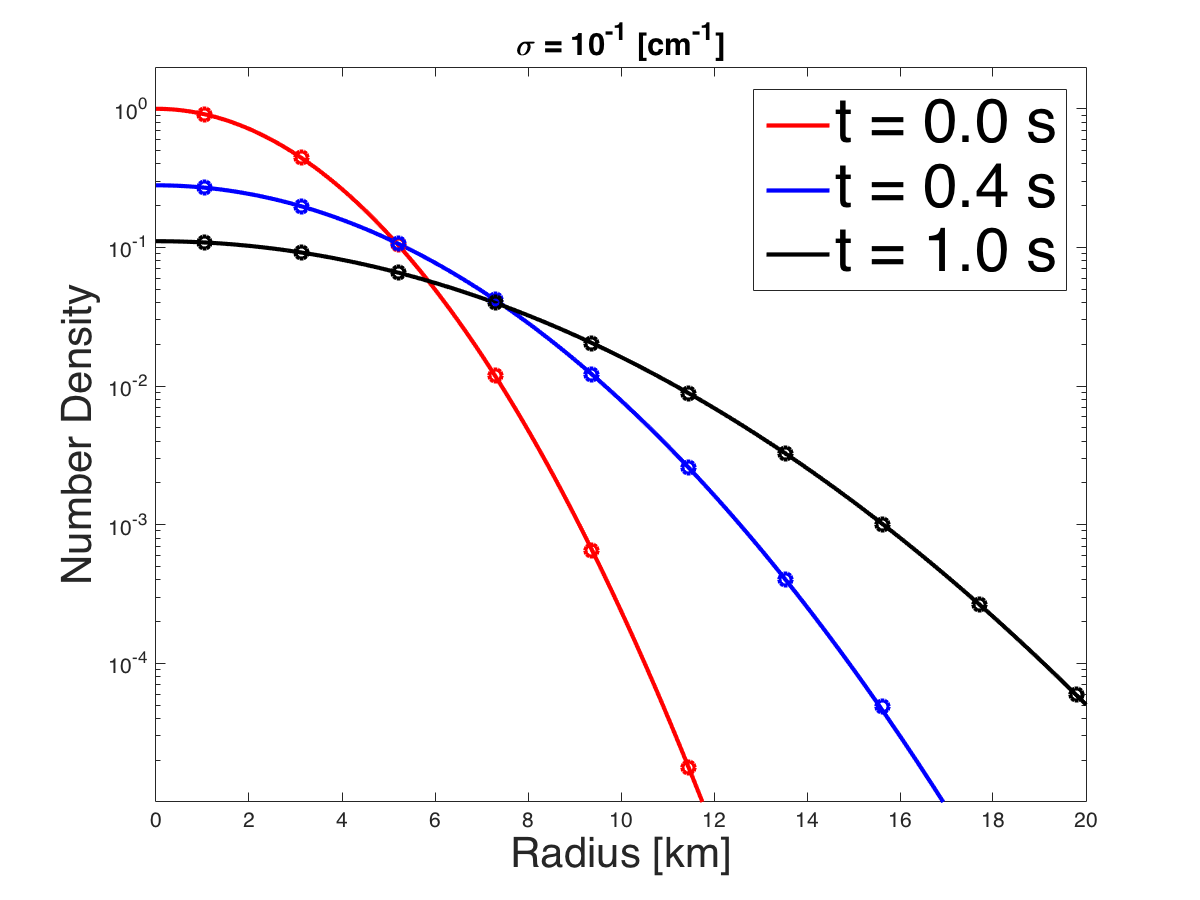
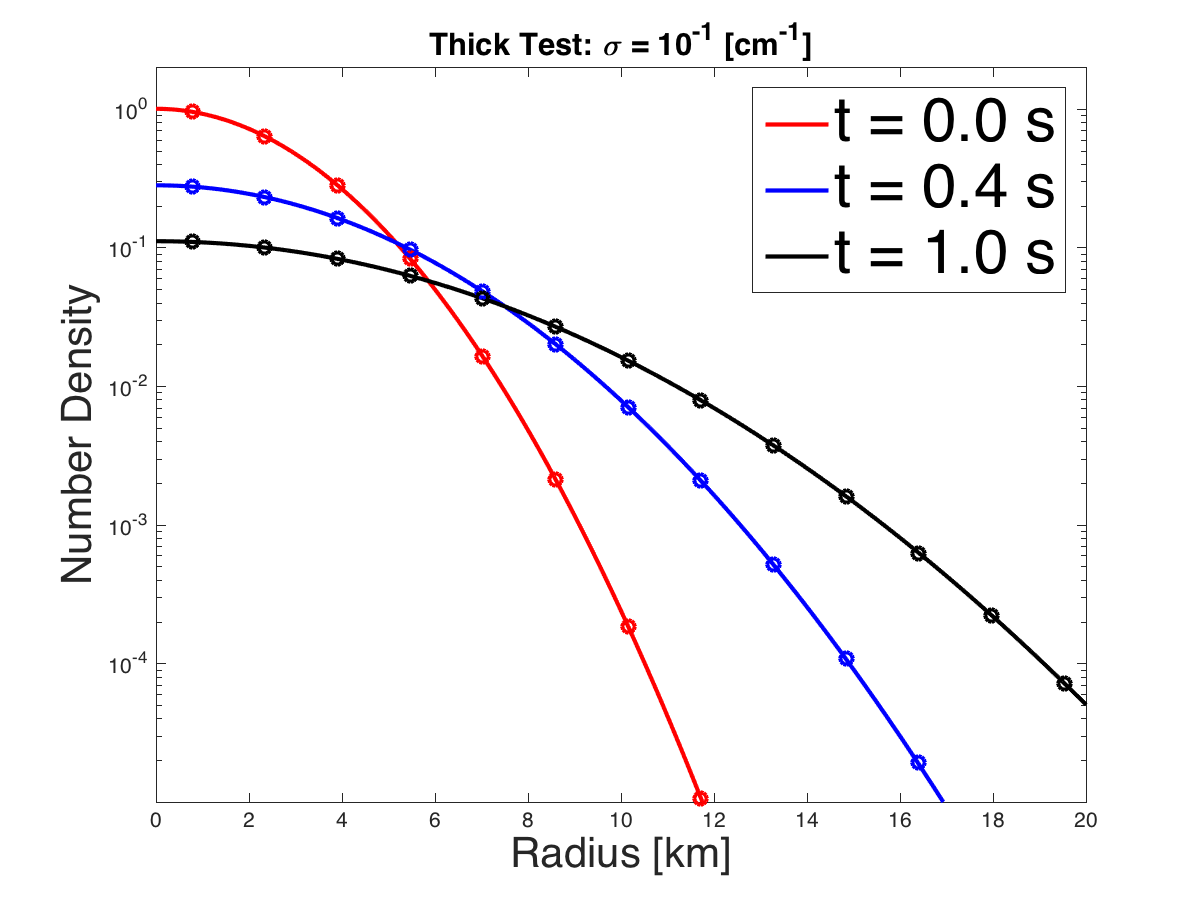
Updates to manuscript.

diff --git a/Documents/M1/dgM1Curvilinear.tex b/Documents/M1/dgM1Curvilinear.tex
@@ -32,6 +32,7 @@
 \newcommand{\pbK}{\partial\mathbf{K}}
 \newcommand{\UDG}{\bU_{\mbox{\tiny DG}}}
 \newcommand{\sumx}{\sum_{i=1}^{d}}
+\newcommand{\NES}{\mbox{\tiny NES}}
 
 \begin{document}
 
@@ -55,17 +56,23 @@ We will use inits in which the speed of light is unity ($c=1$).
 \subsection{Basic Mathematical Model}
 
 For general curvilinear spatial coordinates $\{x^{i}\}$, the two-moment model for radiation transport takes the form \citep[see, e.g.,][for fully general relativistic treatments]{shibata_etal_2011,cardall_etal_2013a}
-\begin{equation}
-  \f{1}{\sqrt{\gamma}}\pderiv{}{t}\Big(\,\sqrt{\gamma}\,\cJ\,\Big)
-  +\f{1}{\sqrt{\gamma}}\pderiv{}{x^{i}}\Big(\,\sqrt{\gamma}\,\cH^{i}\,\Big)=\chi\,\big(\cJ_{0}-\cJ\big),
+\begin{align}
+  &\f{1}{\sqrt{\gamma}}\pderiv{}{t}\Big(\,\sqrt{\gamma}\,\cJ\,\Big)
+  +\f{1}{\sqrt{\gamma}}\pderiv{}{x^{i}}\Big(\,\sqrt{\gamma}\,\cH^{i}\,\Big)
+  =\tilde{\chi}\,\big(\cJ_{0}-\cJ\big) \nonumber \\
+  &\hspace{12pt}
+  +\big(4\pi-\cJ\big)\int_{\bbR^{+}}R^{\In}(\epsilonNu,\epsilonNu')\,\cJ(\epsilonNu')\,dV_{\epsilonNu'}
+  -\cJ\int_{\bbR^{+}}R^{\Out}(\epsilonNu,\epsilonNu')\,\big(4\pi-\cJ(\epsilonNu')\big)\,dV_{\epsilonNu'},
   \label{eq:momentEquationEnergy}
-\end{equation}
-\begin{equation}
-  \f{1}{\sqrt{\gamma}}\pderiv{}{t}\Big(\,\sqrt{\gamma}\,\cH_{j}\,\Big)
+\end{align}
+\begin{align}
+  &\f{1}{\sqrt{\gamma}}\pderiv{}{t}\Big(\,\sqrt{\gamma}\,\cH_{j}\,\Big)
   +\f{1}{\sqrt{\gamma}}\pderiv{}{x^{i}}\Big(\,\sqrt{\gamma}\,\cK^{i}_{~j}\,\Big)
-  =\f{1}{2}\,\cK^{ik}\,\pderiv{\gamma_{ik}}{x^{j}}-\kappa\,\cH_{j},
+  =\f{1}{2}\,\cK^{ik}\,\pderiv{\gamma_{ik}}{x^{j}}-\kappa\,\cH_{j} \nonumber \\
+  &\hspace{12pt}
+  -\cH_{j}\int_{\bbR^{+}}\big[\,R^{\In}(\epsilonNu,\epsilonNu')\,\cJ(\epsilonNu')+R^{\Out}(\epsilonNu,\epsilonNu')\big(4\pi-\cJ(\epsilonNu')\big)\,\big]\,dV_{\epsilonNu'},
   \label{eq:momentEquationMomentum}
-\end{equation}
+\end{align}
 where $\cJ$, $\cH^{i}$, and $\cK^{ij}$ are defined as angular moments of a positive neutrino distribution function $f(\omegaNu,\epsilonNu,\bx,t)$
 \begin{equation}
   \big\{\,\cJ,\,\cH^{i},\,\cK^{ij}\,\big\}(\epsilonNu,\bx,t)
@@ -82,15 +89,19 @@ In forming the angular moments in Eq.~\eqref{eq:angularMoments}, the integrals e
 The angular moments are related to the neutrino energy density, momentum density, and stress ($\cJ$, $\cH^{i}$, and $\cK^{ij}$, respectively).  
 They are functions of the neutrino energy $\epsilonNu$, spatial position $\{x^{i}\}$, and time $t$.  
 
-To model neutrino matter interactions, we include emission and absorption, and isotropic, elastic scattering on nucleons and nuclei.  
-On the right-hand sides of Eqs.~\eqref{eq:momentEquationEnergy} and \eqref{eq:momentEquationMomentum}, $\chi(\epsilonNu,\bU)$ and $\kappa(\epsilonNu,\bU)=\chi(\epsilonNu,\bU)+\sigma(\epsilonNu,\bU)$ are absorption and total (absorption plus scattering) opacities, respectively.  
+To model neutrino matter interactions, we include emission and absorption, (isotropic) elastic scattering on nucleons and nuclei, and neutrino-electron scattering (NES).  
+On the right-hand sides of Eqs.~\eqref{eq:momentEquationEnergy} and \eqref{eq:momentEquationMomentum}, $\tilde{\chi}(\epsilonNu,\bU)$ and $\kappa(\epsilonNu,\bU)=\tilde{\chi}(\epsilonNu,\bU)+\sigma(\epsilonNu,\bU)$ are absorption and total (absorption plus scattering) opacities, respectively.  
+The absorption opacity $\tilde{\chi}$ is corrected for stimulated absorption \citep[cf.][]{mezzacappaBruenn_1993a}.  
+The NES rates $R^{\In}$ and $R^{\Out}$ are obtained by expanding the full kernels in a Legendre series, retaining only the isotropic part \citep[see, e.g.,][]{cernohorsky_1994}, and the integrals extend over all energies $\bbR^{+}=\{\epsilonNu~|~\epsilonNu\in[0,\infty)\}$.  
+The energy volume element is $dV_{\epsilonNu}=\epsilonNu^{2}d\epsilonNu$.  
 The opacities depend on the neutrino energy and the local thermodynamic state of the fluid $\bU=(\rho,T,Y_{e})^{T}$, where $\rho$ is the (baryon) mass density, $T$ the temperature, and $Y_{e}$ the electron fraction.  
-We use the opacities given by \citet{bruenn_1985}.  
+For simplicity we consider a single neutrino species (electron neutrinos), and we use opacities given by \citet{bruenn_1985}; see Section~\ref{sec:opacities} for further details.  
 In Eq.~\eqref{eq:momentEquationEnergy}, the equilibrium density $\cJ_{0}=4\pi\,f_{0}(\epsilonNu,\bU)$ is computed from the angular moment of the isotropic Fermi-Dirac distribution
 \begin{equation}
   f_{0}(\epsilonNu,\bU)=\f{1}{e^{(\epsilonNu-\mu_{\nu})/k_{\mbox{\tiny B}}T}+1},
 \end{equation}
-where $k_{\mbox{\tiny B}}$ is Boltzmann's constant, and $\mu_{\nu}$ is the neutrino chemical potential.  
+where $k_{\mbox{\tiny B}}$ is Boltzmann's constant, and $\mu_{\nu}=\mu_{p}-\mu_{n}+\mu_{e}$ is the neutrino chemical potential.  
+(The chemical potentials of protons, neutrons, and electrons are denoted by $\mu_{p}$, $\mu_{n}$, and $\mu_{e}$, respectively.)
 
 The model given by Eqs.~\eqref{eq:momentEquationEnergy} and \eqref{eq:momentEquationMomentum} is non-relativistic (i.e., it does not include effects due to strong gravitational fields or interactions with a moving fluid), but is expressed in terms of curvilinear coordinates through the spatial metric tensor $\gamma_{ij}$, which gives squared infinitesimal line-element
 \begin{equation}
@@ -146,7 +157,8 @@ Specifically, we have $\psi(0)=1/3$ (diffusion limit) and $\psi(1)=1$ (streaming
   \end{center}
 \end{table}
 
-We define the geometry sources in Eq.~\eqref{eq:momentEquationMomentum} by
+For the forthcoming description it is useful to write the moment equations in a more compact form.  
+To this end, we define the geometry sources in Eq.~\eqref{eq:momentEquationMomentum} by
 \begin{equation}
   \cG_{j}
   =\f{1}{2}\,\cK^{ik}\,\pderiv{\gamma_{ik}}{x^{j}}.  
@@ -160,16 +172,16 @@ Specifically, using the time-independent metric tensor in Eq.~\eqref{eq:threeMet
   \cG_{3}
   =0.
 \end{equation}
-Then, by defining the vector of evolved moments $\bcM=\big(\,\cJ,\,\cH_{1},\,\cH_{2},\,\cH_{3}\,\big)^{T}$, the vector of geometry sources $\bcG(\bcM)=\big(\,0,\,\cG_{1},\,\cG_{2},\,\cG_{3}\,\big)^{T}$, the vector of collision sources $\bcC(\bcM)=\big(\,\chi\,(\cJ_{0}-\cJ),\,-\kappa\,\cH_{1},\,-\kappa\,\cH_{2},\,-\kappa\,\cH_{3}\,\big)^{T}$, and the flux vectors $\bcF^{i}(\bcM)=\big(\,\cH^{i},\,\cK_{~1}^{i},\,\cK_{~2}^{i},\,\cK_{~3}^{i}\,\big)^{T}$, we write the system of equations in compact form
+(Explicit expressions for metric functions appearing in the geometry sources are listed in Table~\ref{tab:metricFunctions}.)  
+Then, by defining the vector of evolved moments $\bcM=\big(\,\cJ,\,\bcH\,\big)^{T}$, the vector of geometry sources $\bcG(\bcM)=\big(\,0,\,\cG_{1},\,\cG_{2},\,\cG_{3}\,\big)^{T}$, the vector of collision sources $\bcC(\bcM)=\big(\,\chi\,(\cJ_{0}-\cJ)+\cL_{\NES},\,-(\kappa+\kappa_{\NES})\,\bcH\,\big)^{T}$, and the flux vectors $\bcF^{i}(\bcM)=\big(\,\cH^{i},\,\cK_{~1}^{i},\,\cK_{~2}^{i},\,\cK_{~3}^{i}\,\big)^{T}$, we write the system of equations in compact form
 \begin{equation}
   \f{1}{\sqrt{\gamma}}\pderiv{}{t}\Big(\,\sqrt{\gamma}\,\bcM\,\Big)
   +\f{1}{\sqrt{\gamma}}\pderiv{}{x^{i}}\Big(\,\sqrt{\gamma}\,\bcF^{i}(\bcM)\,\Big)
   =\bcG(\bcM)+\bcC(\bcM).
   \label{eq:momentEquationsCompact}
 \end{equation}
+Here, $\cL_{\NES}$ and $\kappa_{\NES}$ represent the integral operators appearing in Eqs.~\eqref{eq:momentEquationEnergy} and \eqref{eq:momentEquationMomentum}, respectively.  
 Eq.~\eqref{eq:momentEquationsCompact} forms the basis for developing DG methods for neutrino transport.  
-
-\clearpage
 
 \section{Discontinuous Galerkin Discretization}
 
@@ -393,8 +405,6 @@ In the absence of sources, Eq.~\eqref{eq:semidiscreteDiscretizedCellAverage} is 
 
 This defines the spatial discretization of the moment equations.  
 
-\clearpage
-
 \section{Time Integration}
 
 For time integration we employ the method lines.  
@@ -462,8 +472,6 @@ As discussed by \citet{chertock_etal_2015}, the time-integration method using Eq
 To increase the temporal accuracy to second order, \citet{chertock_etal_2015} propose a correction step to be applied after the last stage.  
 We defer the development of the correction step, and use the first-order accurate time integrator for stiff problems.  
 We note that the SIRK method reduces to the SSP-RK methods in Section~\ref{sec:explicitTime} when $\bcC=0$.  
-
-\clearpage
 
 \section{Polynomial Limiting}
 
@@ -574,6 +582,7 @@ In particular, from the definition of the moments in Eq.~\eqref{eq:angularMoment
 Failure in maintaining these bounds can lead to an ill-posed closure problem and loss of hyperbolicity for the moment equations.  
 
 \section{Neutrino Opacities}
+\label{sec:opacities}
 
 %\ee{Ran write about tabulated B85 absorption and scattering opacities.}
 
@@ -658,7 +667,6 @@ The last two terms are contributions from isoenergetic scattering of neutrino by
 R_{IS}(\mu_0, \mu^\prime_0, \epsilonNu,\bU) & = R_{IS}^{nucleons}(\mu_0, \mu^\prime_0, \epsilonNu,\bU) +  R_{IS}^{nuclei}(\mu_0, \mu^\prime_0, \epsilonNu,\bU)\\
 & = \int_{0}^{2\pi}d
 \end{align}
-\clearpage
 
 \section{Benchmark Problems}
 
@@ -677,12 +685,21 @@ We let the initial condition be given by
   \cJ(x,t=0)=\cH_{x}(x,t=0)=1+\sin\big(2\pi\,x\big).  
 \end{equation}
 Results are shown in Figure~\ref{fig:streamingSineWave} and Table~\ref{tab:streamingSineWave}.  
+In Figure~\ref{fig:streamingSineWave}, results obtained using the TVD limiter (cf. Eq.~\eqref{eq:minmodB} with $M=0$) with various $\beta$ values are shown.  
+With this limiter, the accuracy of the scheme is severely compromised.  
+The accuracy can be significantly improved with the TVB limiter ($M>0$), but the proper value for $M$ is problem dependent, and difficult to set a priori.  
+Instead, we have implemented the discontinuity detector based on Harten's subcell resolution method as a ``troubled-cell'' indicator \citep{harten_1989,qiuShu_2005}, which prevents limiting in smooth regions.  
+Results using the detector (black open circles) show a significant improvement.  
+In Table~\ref{tab:streamingSineWave} we list convergence results for this latter method, which demonstrates high-order accuracy (i.e., better than second-order) when expected.  
+Unless otherwise noted, we continue to use the discontinuity detector in the remaining numerical experiments.  
 
 \begin{figure}
   \begin{center}
-    \includegraphics[scale=0.38]{./Figures/StreamingSineWave1D}
+    \includegraphics[scale=0.78]{./Figures/StreamingSineWave1D}
   \end{center}
-  \caption{Energy density versus position after ten grid crossings ($t=10$) for the streaming sine wave problem computed with the DG(2)+RK3 scheme using 16 elements.  We compare results obtained using various limiter parameters (see text for details) with the analytic solution (dotted line).}
+  \caption{Particle density versus position after ten grid crossings ($t=10$) for the streaming sine wave problem computed with the DG(2)+RK3 scheme using 16 elements.  
+  We compare results obtained using various limiter parameters (open circles; see text for details) with the analytic solution (dotted line).  
+  Results obtained using the discontinuity detector (D) is denoted with black open circles.}
   \label{fig:streamingSineWave}
 \end{figure}
 
@@ -719,10 +736,13 @@ We let the boundary conditions be given by the analytical solution, and integrat
 
 Snapshots of the solution ($\cJ$ versus $r$), obtained with the DG(2)+RK3 scheme, are shown in Figure~\ref{fig:sphericalWave} for $t=\{2.5,3.5,5.0,7.0\}$ (open circles).  
 For comparison, the analytical solution is plotted with dotted lines.  
+There is good agreement between the numerical and analytical solutions.  
+In Table~\ref{tab:sphericalWave} we list convergence results obtained with the various schemes.  
+High-order accuracy is achieved with the DG(2)+RK3 and DG(3)+RK3 schemes.  
 
 \begin{figure}
   \begin{center}
-    \includegraphics[scale=0.38]{./Figures/GaussianSphericalWave1D}
+    \includegraphics[scale=0.78]{./Figures/GaussianSphericalWave1D}
   \end{center}
   \caption{Energy density versus radius at various times for the spherical wave problem computed with the DG(2)+RK3 scheme using 32 elements.  The numerical solution (open circles) is compared to the analytical solution (dotted lines).  }
   \label{fig:sphericalWave}
@@ -731,6 +751,7 @@ For comparison, the analytical solution is plotted with dotted lines.
 \begin{table}
   \begin{center}
   \caption{$L^{\infty}$ error and convergence rates for the spherical wave problem.}
+  \label{tab:sphericalWave}
   \begin{tabular}{ccccccccc}
     & \multicolumn{4}{c}{SSP-RK2} & \multicolumn{4}{c}{SSP-RK3} \\
     \cmidrule(r){2-5} \cmidrule(r){6-9}
@@ -749,8 +770,9 @@ For comparison, the analytical solution is plotted with dotted lines.
 
 \subsection{Riemann Problem}
 
-To test the ability of the DG method to capture discontinuities, we solve the Riemann problem presented by \citet{OHF2012}.  
-To compare with their results, we use the Eddington factor due to Levermore \citep{levermore_1984}
+To test the ability of the DG method to capture discontinuities without spurious oscillations, we solve the Riemann problem presented by \citet{OHF2012}.  
+This problem is also challenging because the condition $\cJ-|\bcH|>0$ can be violated.  
+To compare with the results of \citet{OHF2012}, we use the Eddington factor due to Levermore \citep{levermore_1984}
 \begin{equation}
   \psi(h)=\f{1}{3}\big(\,5-2\,\sqrt{4-3\,h^{2}}\,\big).  
   \label{eq:eddingtonFactorLevermore}
@@ -768,7 +790,12 @@ The initial condition is given by
   \label{eq:riemannProblem}
 \end{equation}
 Results for $t=0.1$ are shown in Figure~\ref{fig:riemannProblem}.  
+In the left panel we plot the number density and flux, obtained with the third-order method (DG(2)+RK3).  
 The discontinuities remain sharp, and oscillations around the discontinuities are controlled (in part due to limiting of characteristic variables; cf. Section~\ref{sec:slopeLimiters}).  
+In the right panel we plot the number density for three computations: limiting triggered everywhere (blue), no slope limiting (positivity limiting only; red), and limiting triggered by the discontinuity detector (black).  
+In the plot we have zoomed in on the discontinuity around $x=0.075$.  
+Without limiting, significant oscillations are present in the solution.  
+With the slope limiter, the oscillations are essentially removed, while using the discontinuity detector to trigger limiting maintains a sharper discontinuity than when limiting is permitted everywhere.  
 
 \begin{figure}
   \begin{center}
@@ -778,40 +805,45 @@ The discontinuities remain sharp, and oscillations around the discontinuities ar
     \end{tabular}
   \end{center}
   \caption{Results from the one-dimensional Riemann problem in Eq.~\eqref{eq:riemannProblem}, obtained with the DG(2)+RK3 method using $240$ elements, the HLL Riemann solver, and the Eddington factor in Eq.~\eqref{eq:eddingtonFactorLevermore}.  
-  The number density $\cJ$ (black) and the number flux density $\cH_{r}$ (red) are plotted for $t=0.1$.}
+  The number density $\cJ$ (black) and the number flux density $\cH_{1}$ (red) are plotted for $t=0.1$.}
   \label{fig:riemannProblem}
 \end{figure}
 
-\subsection{Diffusion Problem}
+\subsection{Spherical Diffusion}
 
+Next, we consider a diffusion problem in spherical symmetry, which involves a constant scattering opacity $\sigma$.  
 This problem is adapted from \citet{abdikamalov_etal_2012} \citep[see also][]{pons_etal_2000,sumiyoshiYamada_2012}.  
-
+For sufficiently high scattering opacity, the moment equations limit to a diffusion equation for the radiation number density.  
+With a Gaussian initial distribution for the energy density $\cJ_{0}(x)=\exp(-3\,\sigma\,r^{2}/(4\,t_{0}))$, the analytical solution to the limiting diffusion equation is given by
 \begin{equation}
-  \cJ(r,t)=\Big(\f{t_{0}}{t_{0}+t}\Big)^{3/2}\,\exp\Big\{\,-\f{3\,\sigma\,r^{2}}{4\,(t_{0}+t)}\,\Big\}
+  \cJ(r,t)=\Big(\f{t_{0}}{t_{0}+t}\Big)^{3/2}\,\exp\Big\{\,-\f{3\,\sigma\,r^{2}}{4\,(t_{0}+t)}\,\Big\},
 \end{equation}
+while the number flux is obtained from $\cH_{r}=-\pd{\cJ}{r}/(3\,\sigma)$.  
+
+We present two versions of this test:  one with $\sigma=10^{-5}$~cm$^{-1}$ (thin test), and one with $\sigma=10^{-1}$~cm$^{-1}$ (thick test).  
+In the thin test, the computational domain extends over $r\in[0,100]$~km, $t_{0}=0.3$~ms, and is run until $t=1$~ms.  
+In the thick test, the computational domain extends over $r\in[0,50]$~km and $t_{0}=0.3$~s, and is run until $t=1$~s.  
+In both tests we use 32 elements and the DG(2)+SIRK2 scheme.  
+With the mean-free path defined as $\lambda=1/\sigma$, the ratio of the mean-free path to the cell width $\Delta r$ is $0.32$ in the thin test, and $6.4\times10^{-5}$ in the thick test.  
+
+Results are plotted in Figure~\ref{fig:diffusionProblem}.  
+There is good agreement between the numerical and analytical solutions, for both the thin and thick cases.  
 
 \begin{figure}
   \begin{center}
     \begin{tabular}{cc}
       \includegraphics[scale=0.38]{./Figures/GaussianSphericalDiffusion_Kappa_1e-5_Density} &
-      \includegraphics[scale=0.38]{./Figures/GaussianSphericalDiffusion_Kappa_1e-5_Flux}
-    \end{tabular}
-  \end{center}
-  \caption{Results from the one-dimensional diffusion problem in spherical symmetry with $\sigma=10^{-5}$~cm$^{-1}$, obtained with the DG(2)+SIRK2 method using $24$ elements.  
-  The number density $\cJ$ (left panel) and the number flux density $\cH_{r}$ (right panel) are plotted for $t=0,0.3,1.0$~ms (red, blue, and black curves, respectively).  
-  Solid lines represent the analytical solution while open circles represent the element center value of the numerical solution.}
-  \label{fig:diffusionProblem1e-5}
-\end{figure}
-
-\begin{figure}
-  \begin{center}
-    \begin{tabular}{cc}
+      \includegraphics[scale=0.38]{./Figures/GaussianSphericalDiffusion_Kappa_1e-5_Flux} \\
       \includegraphics[scale=0.38]{./Figures/GaussianSphericalDiffusion_Kappa_1e-1_Density} &
       \includegraphics[scale=0.38]{./Figures/GaussianSphericalDiffusion_Kappa_1e-1_Flux}
     \end{tabular}
   \end{center}
-  \caption{Results similar to those displayed in Figure~\ref{fig:diffusionProblem1e-5}, but with $\sigma=10^{-1}$~cm$^{-1}$.}
-  \label{fig:diffusionProblem1e-1}
+  \caption{Results from the one-dimensional diffusion problem in spherical symmetry, obtained with the DG(2)+SIRK2 method using $32$ elements.  
+  The number density $\cJ$ (left panel) and the number flux density $\cH_{r}$ (right panel) are plotted.  
+  In the upper panels $\sigma=10^{-5}$~cm$^{-1}$, with results plotted for $t=0,0.3,1.0$~ms (red, blue, and black curves, respectively).  
+  In the lower panels $\sigma=10^{-1}$~cm$^{-1}$, with results plotted for $t=0,0.4,1.0$~s (red, blue, and black curves, respectively).  
+  Solid lines represent the analytical solution while open circles represent the element center value of the numerical solution.}
+  \label{fig:diffusionProblem}
 \end{figure}
 
 \subsection{Homogeneous Sphere}
@@ -866,6 +898,72 @@ Results are plotted in Figure~\ref{fig:homogeneousSphere1D}.
 
 \section{Mini-app: Transport Problems with Tabulated Neutrino Opacities}
 
+For the tests in this section we employ the tabulated opacities described in Section~\ref{sec:opacities}.  
+We present two tests from the previous section (the homogeneous sphere and spherical diffusion problems), where the background is kept fixed.  
+Then we present a relaxation problem involving neutrino-electron scattering (NES) with a homogeneous background.  
+Finally, we present a deleptonization problem where the background density mimics that of a collapsed stellar core.  
+The first deleptonization problem (Em/Ab) involves emission and absorption only, while the second deleptonization problem (Full) involves the full set of opacities described in Section~\ref{sec:opacities}.  
+
+When coupling neutrinos to the background fluid, the gain/loss terms involve integrals of the right-hand sides in Eqs.~\eqref{eq:momentEquationEnergy} and \eqref{eq:momentEquationMomentum} over energy space.  
+To simulate multi-group neutrino transport and compute the lepton and energy exchange with the fluid, the infinite energy domain $\bbR^{+}$ is replaced with a finite domain $D^{\epsilonNu}=\{\epsilonNu~|~\epsilonNu\in[0,\epsilonNu_{\mbox{\tiny max}}]\}$.  
+The domain $D^{\epsilonNu}$ is then split up into $N_{\epsilonNu}$ energy bins $K_{i}^{\epsilonNu}=\{\epsilonNu~|~\epsilonNu\in[\epsilonNu_{i-1/2},\epsilonNu_{i+1/2}]\}$, where the width of the $i$th bin is $|K_{i}^{\epsilonNu}|=(\epsilonNu_{i+1/2}-\epsilonNu_{i-1/2})$.  
+Within each bin, we employ a polynomial representation of the radiation fields and solve for nodal values collocated in Gaussian quadrature points.  
+The number of quadrature points $N$ then increases with the degree $k$ of the polynomial representation ($N=k+1$).  
+Integrals of radiation quantities over energy space are then evaluated as
+\begin{equation}
+  \int_{\bbR^{+}}g(\epsilonNu)\,d\epsilonNu
+  \approx\int_{D^{\epsilonNu}}g(\epsilonNu)\,d\epsilonNu
+  =\sum_{i=1}^{N^{\epsilonNu}}\int_{K_{i}^{\epsilonNu}}g(\epsilonNu)\,d\epsilonNu
+  \approx\sum_{i=1}^{N^{\epsilonNu}}|K_{i}^{\epsilonNu}|\sum_{q=1}^{N}w_{q}\,g_{q}=\sum_{j=1}^{M^{\epsilonNu}} W_{j}\,g_{j}=\vect{W}\cdot\vect{g},
+\end{equation}
+where $w_{q}$ are Gaussian quadrature weights (normalized such that $\sum_{q=1}^{N}w_{q}=1$) and $M^{\epsilonNu}=N^{\epsilonNu}\times N$.  
+In constructing the vectors $\vect{W},\vect{g}\in\bbR^{M^{\epsilonNu}}$, the elements are sorted with monotonically increasing energy; e.g., $W_{j}=|K_{i}^{\epsilonNu}|\,w_{q}$, where $j=(i-1)\times N+q$, ($i=1,\ldots,N^{\epsilonNu}$, $q=1,\ldots,N$).  
+
+\subsection{Fluid-Radiation Coupling}
+
+\subsubsection{Emission and Absorption}
+
+Electron capture on nucleons and nuclei results in changes to the electron fraction and internal energy of the fluid given by
+\begin{align}
+  d_{t}Y_{e}
+  &=-\f{m_{\mbox{\tiny B}}}{\rho}\int_{\bbR^{+}}\tilde{\chi}\,\big(\cJ_{0}-\cJ\big)\,dV_{\epsilonNu}, \label{eq:electronFractionEmAb} \\
+  d_{t}\epsilon
+  &=-\f{1}{\rho}\int_{\bbR^{+}}\tilde{\chi}\,\big(\cJ_{0}-\cJ\big)\,\epsilonNu\,dV_{\epsilonNu}, \label{eq:internalEnergyEmAb}
+\end{align}
+where $m_{\mbox{\tiny B}}$ is the baryon mass and $\epsilon$ is the specific internal energy.  
+In each implicit step in the SIRK2 scheme discussed in Section~\ref{sec:semiImplicitTime} we solve Eqs.~\eqref{eq:electronFractionEmAb}-\eqref{eq:internalEnergyEmAb} coupled to the collision part of the moment equations.  
+\begin{align}
+  Y_{e}^{n+1}-Y_{e}^{n}
+  &=-\f{m_{\mbox{\tiny B}}}{\rho}\sum_{j=1}^{M^{\epsilonNu}}W_{j}^{(2)}\,\gamma_{j}^{n}\,\big(\cJ_{0,j}^{n+1}-\cJ_{j}^{n+1}\big), \label{eq:electronFractionEmAbDiscrete0} \\
+  \epsilon^{n+1}-\epsilon^{n}
+  &=-\f{1}{\rho}\sum_{j=1}^{M^{\epsilonNu}}W_{j}^{(3)}\,\gamma_{j}^{n}\,\big(\cJ_{0,j}^{n+1}-\cJ_{j}^{n+1}\big), \label{eq:internalEnergyEmAbDiscrete0}
+\end{align}
+where $W_{j}^{(2,3)}=w_{q}\,\epsilonNu_{i,q}^{2,3}\,\Delta\epsilonNu_{i}$ and $\gamma_{j}^{n}=\dt\,\tilde{\chi}_{j}^{n}$.  
+Note that the absorption opacity is defined at the known time level $t^{n}$, which avoids computation of derivatives with respect to temperature and electron fraction.  
+The radiation energy density is updated from
+\begin{equation}
+  \cJ_{j}^{n+1}=\f{\cJ_{j}^{n}+\gamma_{j}^{n}\,\cJ_{0,j}^{n+1}}{1+\gamma_{j}^{n}}, 
+  \label{eq:momentEquationEnergyEmAbDiscrete}
+\end{equation}
+which, when inserted into Eqs.~\eqref{eq:electronFractionEmAbDiscrete0}-\eqref{eq:internalEnergyEmAbDiscrete0}, results in a nonlinear system for the unknowns $Y^{n+1}$ and $\epsilonNu^{n+1}$
+\begin{align}
+  Y_{e}^{n+1}-Y_{e}^{n}
+  &=-\f{m_{\mbox{\tiny B}}}{\rho}\sum_{j=1}^{M^{\epsilonNu}}W_{j}^{(2)}\,\tilde{\gamma}_{j}^{n}\,\big(\cJ_{0,j}^{n+1}-\cJ_{j}^{n}\big), \label{eq:electronFractionEmAbDiscrete} \\
+  \epsilon^{n+1}-\epsilon^{n}
+  &=-\f{1}{\rho}\sum_{j=1}^{M^{\epsilonNu}}W_{j}^{(3)}\,\tilde{\gamma}_{j}^{n}\,\big(\cJ_{0,j}^{n+1}-\cJ_{j}^{n}\big), \label{eq:internalEnergyEmAbDiscrete}
+\end{align}
+where $\tilde{\gamma}_{j}^{n}=\gamma_{j}^{n}/(1+\gamma_{j}^{n})$.  
+Since the equilibrium density $\cJ_{0,j}$ is a nonlinear function of $Y_{e}$ and $\epsilon$, Eqs.~\label{eq:electronFractionEmAbDiscrete}-\label{eq:internalEnergyEmAbDiscrete} are solved using Newton's method.  
+Once $Y_{e}^{n+1}$ and $\epsilon^{n+1}$ are obtained, the radiation density is obtained from Eq.~\eqref{eq:momentEquationEnergyEmAbDiscrete}, while the flux is given by
+\begin{equation}
+  \bcH_{j}^{n+1}=\bcH_{j}^{n}/(1+\gamma_{j}^{n}).  
+  \label{eq:momentEquationMomentumEmAbDiscrete}
+\end{equation}
+
+\subsubsection{Neutrino-Electron Scattering}
+
+\subsubsection{Full Interaction Set}
+
 \begin{table}
   \caption{Parameters used for problems with tabulated opacities. \label{tab:tabulatedModels}}
   \begin{tabular}{ccccc}
@@ -897,6 +995,8 @@ Results are plotted in Figure~\ref{fig:homogeneousSphere1D}.
 
 \subsection{Diffuse Scattering}
 
+\subsection{Relaxation}
+
 \subsection{Deleptonization}
 
 We conclude with a problem mimicking the deleptonization of a collapsed stellar core.  
@@ -918,11 +1018,11 @@ where $\rho_{1,0}>\rho_{2,0}$ and $\alpha<0$.
 We set $\rho_{1,0}=4.5\times10^{14}$, $\rho_{1,0}=1.0\times10^{13}$, $\alpha=-4$, and $R_{1}=10$~km.  
 Then, by imposing $\rho_{1}(R_{2})=\rho_{2}(R_{2})$, we find $R_{2}=R_{1}\sqrt{\ln(\rho_{1,0}/\rho_{2,0})}\approx19.5$~km.  
 We also set $r_{0}=R_{2}$ and $R_{0}=1$~km.  
-With these parameters, the density profile given by Eqs~\eqref{eq:densityProfile}, \eqref{eq:densityProfile1}, and \eqref{eq:densityProfile2} provides a reasonable approximation to the density profile in the post-bounce phase of a supernova realistic model (cf. Figure~\ref{fig:analyticDensityProfile}).  
+With these parameters, the density profile given by Eqs~\eqref{eq:densityProfile}, \eqref{eq:densityProfile1}, and \eqref{eq:densityProfile2} provides a reasonable approximation to the density profile in the post-bounce phase of a realistic supernova model (cf. Figure~\ref{fig:analyticDensityProfile}).  
 
 \begin{figure}
   \begin{center}
-      \includegraphics[scale=0.5]{./Figures/AnalyticDensityProfile}
+      \includegraphics[scale=0.78]{./Figures/AnalyticDensityProfile}
   \end{center}
   \caption{Density profile used in the deleptonization problem (solid black line; cf. Eq.~\eqref{eq:densityProfile}).  
   It is composed of a Gaussian profile for radii $\lesssim20$~km (dashed black line), and a power law, with $\rho\propto r^{-4}$, for larger radii (dotted black line).  
